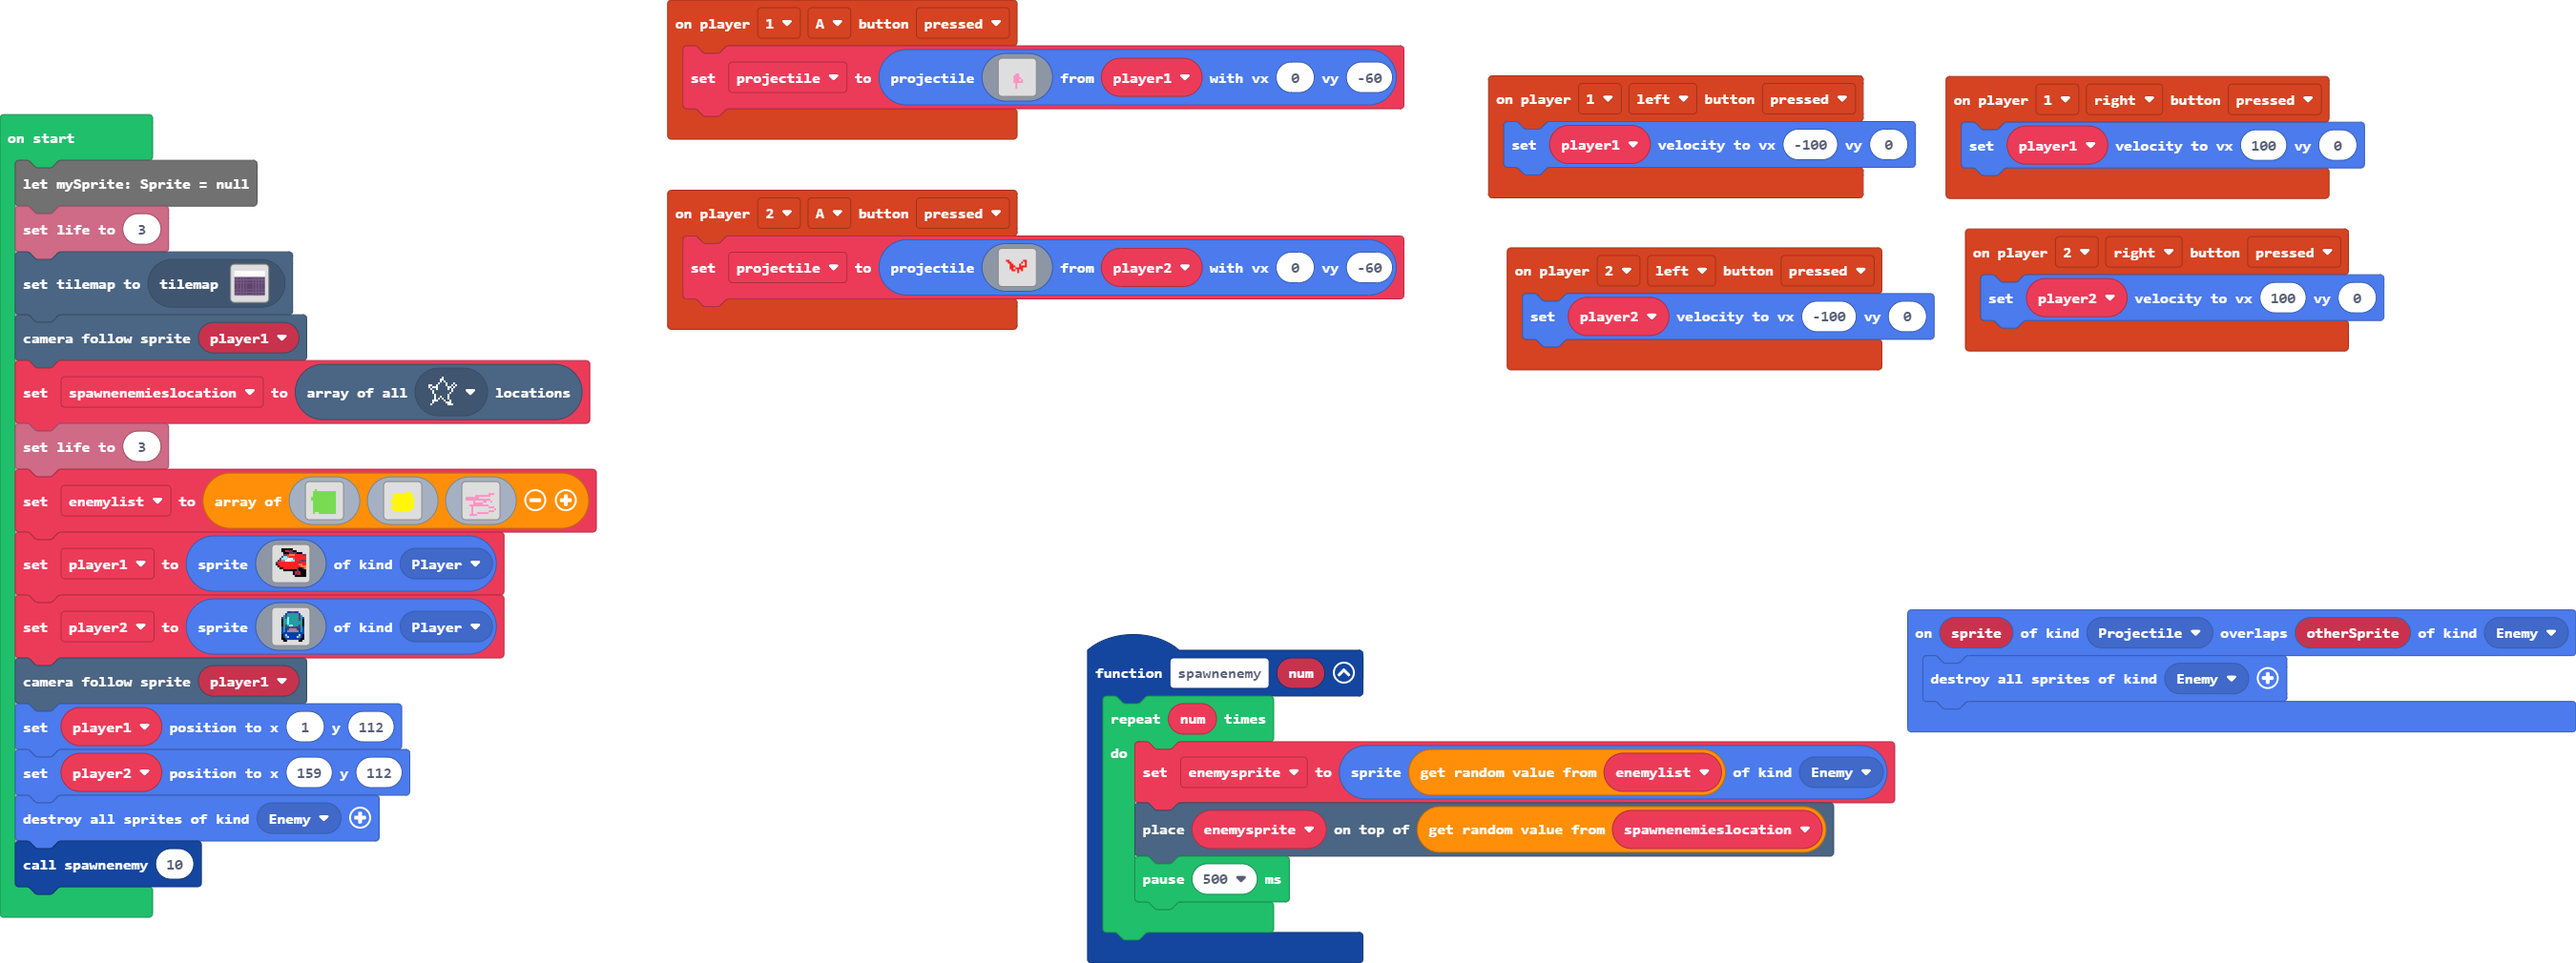
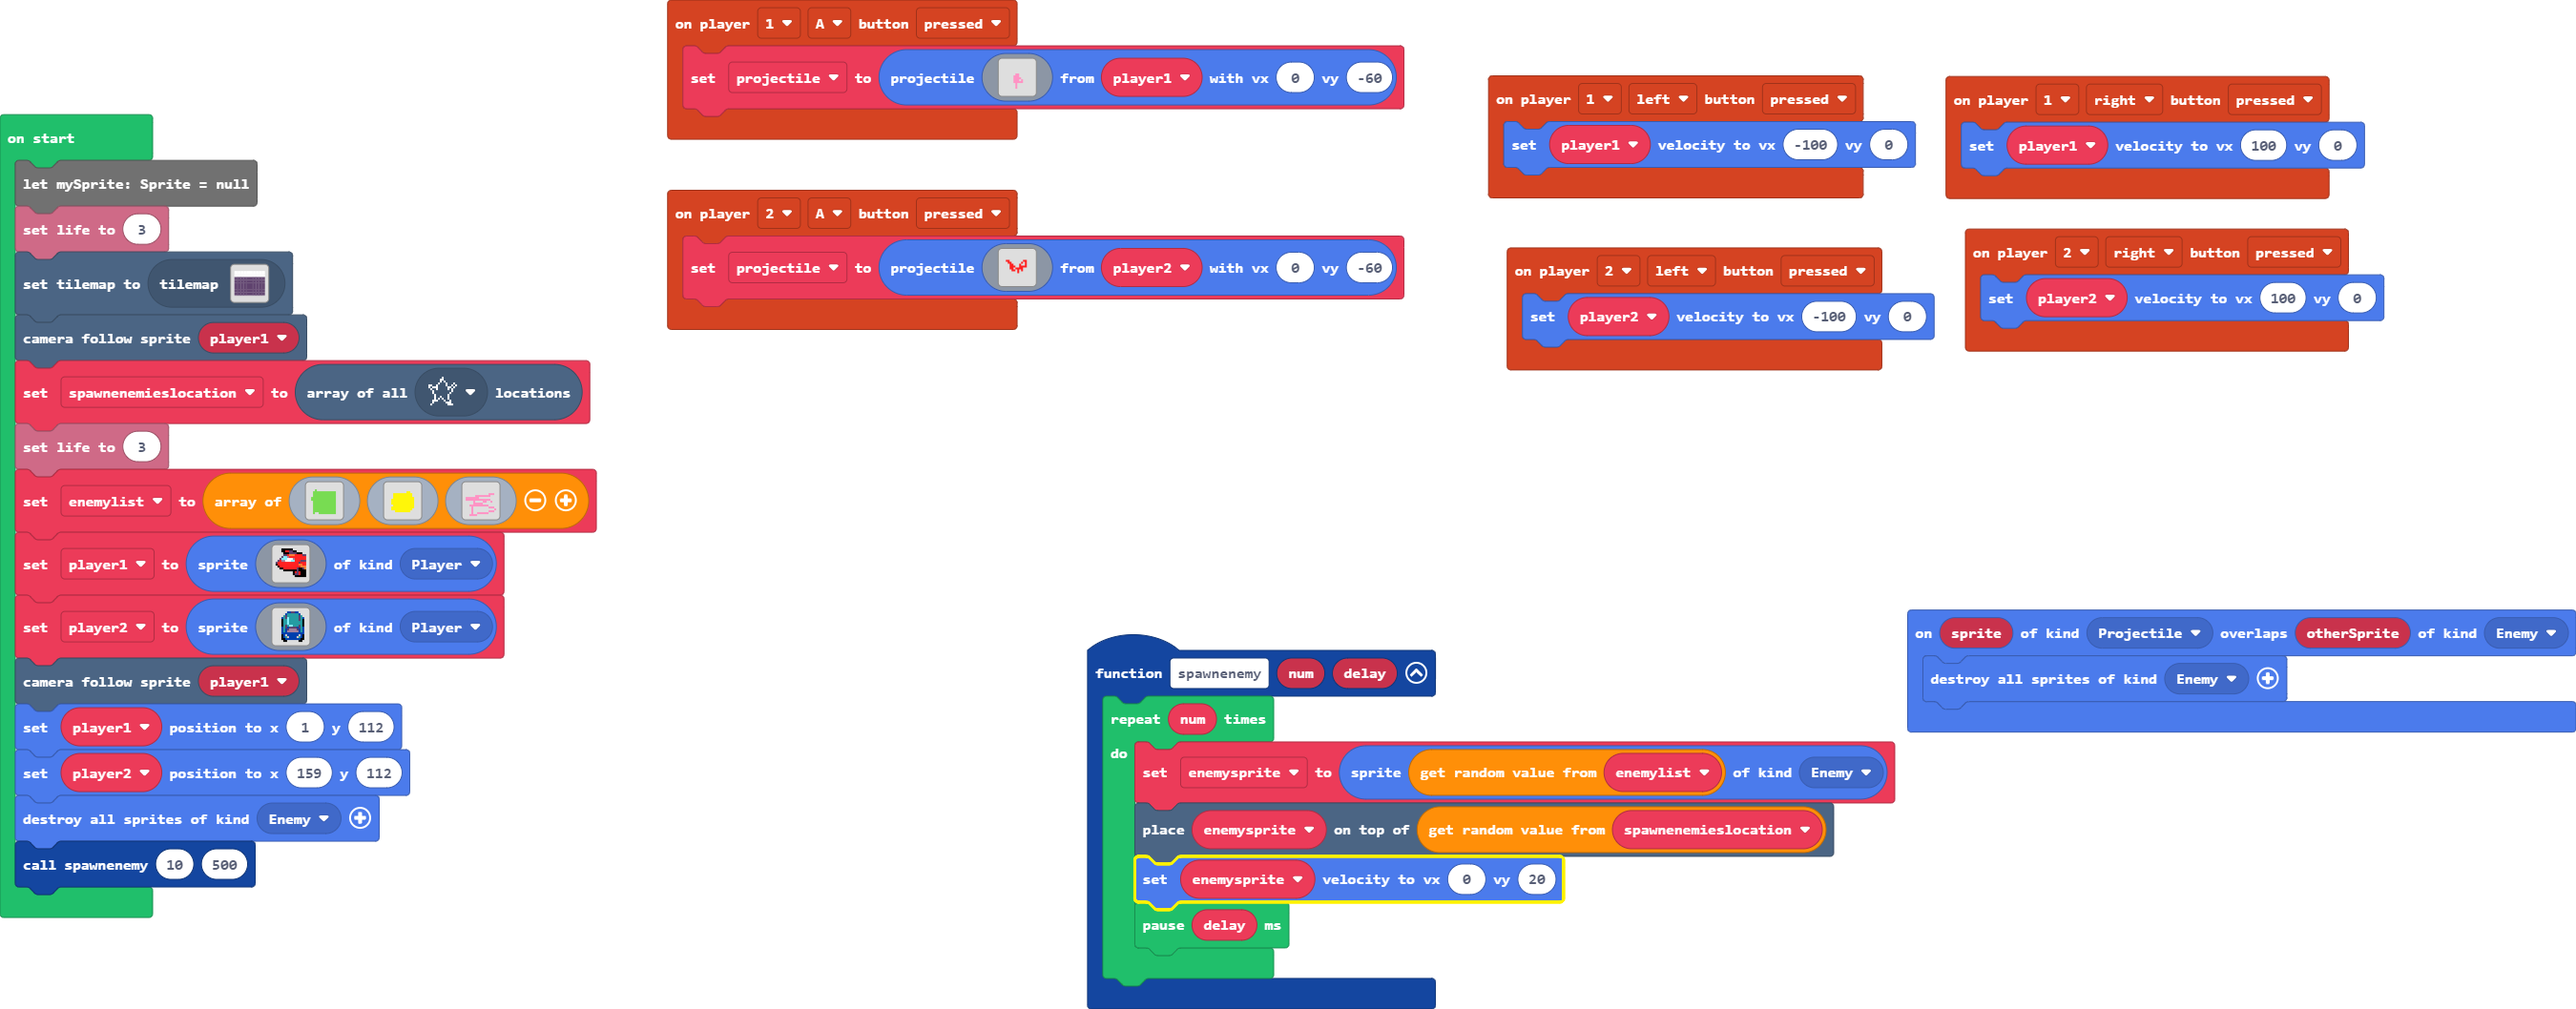
update

diff --git a/tilemap.g.ts b/tilemap.g.ts
@@ -115,6 +115,82 @@ namespace myTiles {
 . . . . . . . . . . . . . . . . 
 . . . . . . . . . . . . . . . . 
 `, [myTiles.transparency16], TileScale.Sixteen);
+            case "level7":
+            case "level7":return tiles.createTilemap(hex`1000100000000000000000000000000000000000000000000000000000000000000000000000000000000000000000000000000000000000000000000000000000000000000000000000000000000000000000000000000000000000000000000000000000000000000000000000000000000000000000000000000000000000000000000000000000000000000000000000000000000000000000000000000000000000000000000000000000000000000000000000000000000000000000000000000000000000000000000000000000000000000000000000000000000000000000000000000000000000000000000000000000000000000000000000000000000000`, img`
+. . . . . . . . . . . . . . . . 
+. . . . . . . . . . . . . . . . 
+. . . . . . . . . . . . . . . . 
+. . . . . . . . . . . . . . . . 
+. . . . . . . . . . . . . . . . 
+. . . . . . . . . . . . . . . . 
+. . . . . . . . . . . . . . . . 
+. . . . . . . . . . . . . . . . 
+. . . . . . . . . . . . . . . . 
+. . . . . . . . . . . . . . . . 
+. . . . . . . . . . . . . . . . 
+. . . . . . . . . . . . . . . . 
+. . . . . . . . . . . . . . . . 
+. . . . . . . . . . . . . . . . 
+. . . . . . . . . . . . . . . . 
+. . . . . . . . . . . . . . . . 
+`, [myTiles.transparency16], TileScale.Sixteen);
+            case "level8":
+            case "level8":return tiles.createTilemap(hex`1000100000000000000000000000000000000000000000000000000000000000000000000000000000000000000000000000000000000000000000000000000000000000000000000000000000000000000000000000000000000000000000000000000000000000000000000000000000000000000000000000000000000000000000000000000000000000000000000000000000000000000000000000000000000000000000000000000000000000000000000000000000000000000000000000000000000000000000000000000000000000000000000000000000000000000000000000000000000000000000000000000000000000000000000000000000000000`, img`
+. . . . . . . . . . . . . . . . 
+. . . . . . . . . . . . . . . . 
+. . . . . . . . . . . . . . . . 
+. . . . . . . . . . . . . . . . 
+. . . . . . . . . . . . . . . . 
+. . . . . . . . . . . . . . . . 
+. . . . . . . . . . . . . . . . 
+. . . . . . . . . . . . . . . . 
+. . . . . . . . . . . . . . . . 
+. . . . . . . . . . . . . . . . 
+. . . . . . . . . . . . . . . . 
+. . . . . . . . . . . . . . . . 
+. . . . . . . . . . . . . . . . 
+. . . . . . . . . . . . . . . . 
+. . . . . . . . . . . . . . . . 
+. . . . . . . . . . . . . . . . 
+`, [myTiles.transparency16], TileScale.Sixteen);
+            case "level9":
+            case "level9":return tiles.createTilemap(hex`1000100000000000000000000000000000000000000000000000000000000000000000000000000000000000000000000000000000000000000000000000000000000000000000000000000000000000000000000000000000000000000000000000000000000000000000000000000000000000000000000000000000000000000000000000000000000000000000000000000000000000000000000000000000000000000000000000000000000000000000000000000000000000000000000000000000000000000000000000000000000000000000000000000000000000000000000000000000000000000000000000000000000000000000000000000000000000`, img`
+. . . . . . . . . . . . . . . . 
+. . . . . . . . . . . . . . . . 
+. . . . . . . . . . . . . . . . 
+. . . . . . . . . . . . . . . . 
+. . . . . . . . . . . . . . . . 
+. . . . . . . . . . . . . . . . 
+. . . . . . . . . . . . . . . . 
+. . . . . . . . . . . . . . . . 
+. . . . . . . . . . . . . . . . 
+. . . . . . . . . . . . . . . . 
+. . . . . . . . . . . . . . . . 
+. . . . . . . . . . . . . . . . 
+. . . . . . . . . . . . . . . . 
+. . . . . . . . . . . . . . . . 
+. . . . . . . . . . . . . . . . 
+. . . . . . . . . . . . . . . . 
+`, [myTiles.transparency16], TileScale.Sixteen);
+            case "level10":
+            case "level10":return tiles.createTilemap(hex`1000100000000000000000000000000000000000000000000000000000000000000000000000000000000000000000000000000000000000000000000000000000000000000000000000000000000000000000000000000000000000000000000000000000000000000000000000000000000000000000000000000000000000000000000000000000000000000000000000000000000000000000000000000000000000000000000000000000000000000000000000000000000000000000000000000000000000000000000000000000000000000000000000000000000000000000000000000000000000000000000000000000000000000000000000000000000000`, img`
+. . . . . . . . . . . . . . . . 
+. . . . . . . . . . . . . . . . 
+. . . . . . . . . . . . . . . . 
+. . . . . . . . . . . . . . . . 
+. . . . . . . . . . . . . . . . 
+. . . . . . . . . . . . . . . . 
+. . . . . . . . . . . . . . . . 
+. . . . . . . . . . . . . . . . 
+. . . . . . . . . . . . . . . . 
+. . . . . . . . . . . . . . . . 
+. . . . . . . . . . . . . . . . 
+. . . . . . . . . . . . . . . . 
+. . . . . . . . . . . . . . . . 
+. . . . . . . . . . . . . . . . 
+. . . . . . . . . . . . . . . . 
+. . . . . . . . . . . . . . . . 
+`, [myTiles.transparency16], TileScale.Sixteen);
         }
         return null;
     })

diff --git a/main.ts b/main.ts
@@ -50,11 +50,12 @@ controller.player1.onButtonEvent(ControllerButton.A, ControllerButtonEvent.Press
         . . . . . . . . . . . . . . . . 
         `, player1, 0, -60)
 })
-function spawnenemy (num: number) {
+function spawnenemy (num: number, delay: number) {
     for (let index = 0; index < num; index++) {
         enemysprite = sprites.create(enemylist._pickRandom(), SpriteKind.Enemy)
         tiles.placeOnTile(enemysprite, spawnenemieslocation._pickRandom())
-        pause(500)
+        enemysprite.setVelocity(0, 20)
+        pause(delay)
     }
 }
 sprites.onOverlap(SpriteKind.Projectile, SpriteKind.Enemy, function (sprite, otherSprite) {
@@ -167,4 +168,4 @@ scene.cameraFollowSprite(player1)
 player1.setPosition(1, 112)
 player2.setPosition(159, 112)
 sprites.destroyAllSpritesOfKind(SpriteKind.Enemy)
-spawnenemy(10)
+spawnenemy(10, 500)
